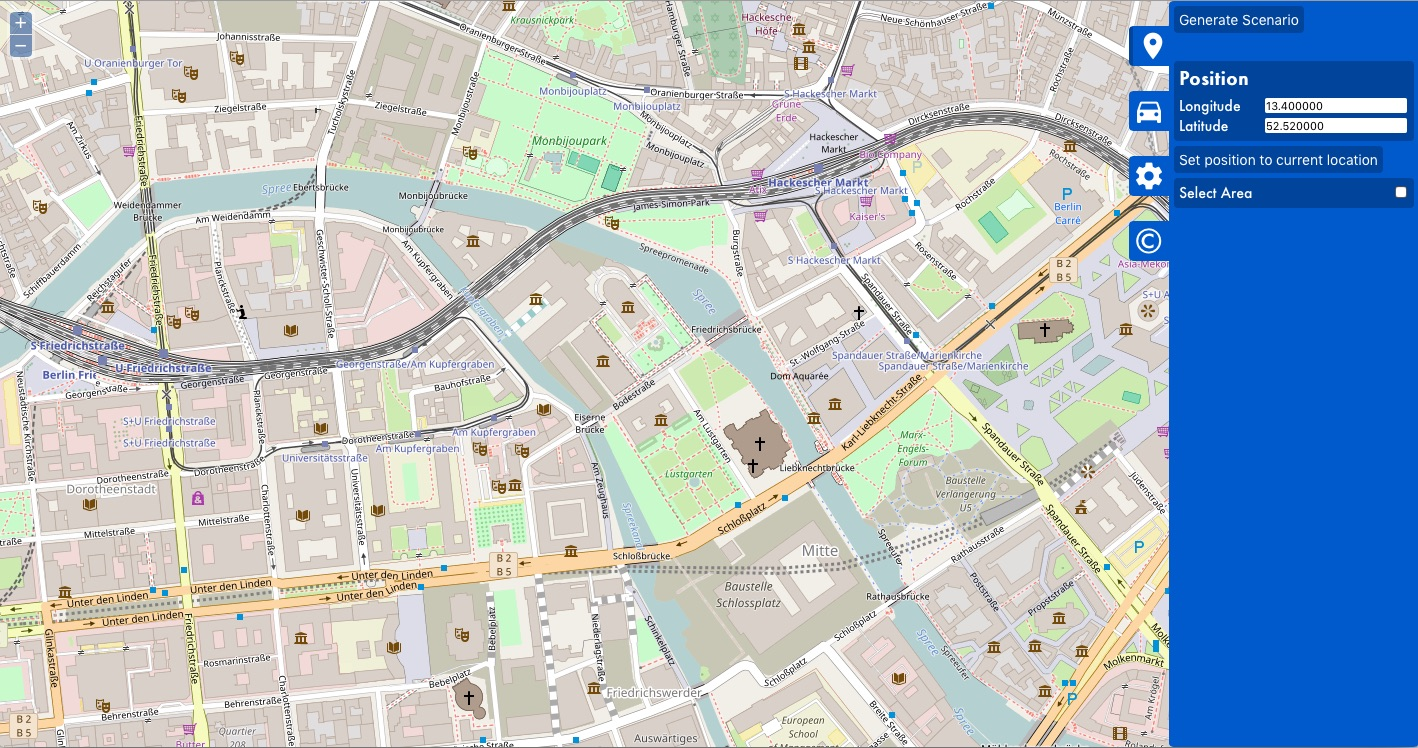
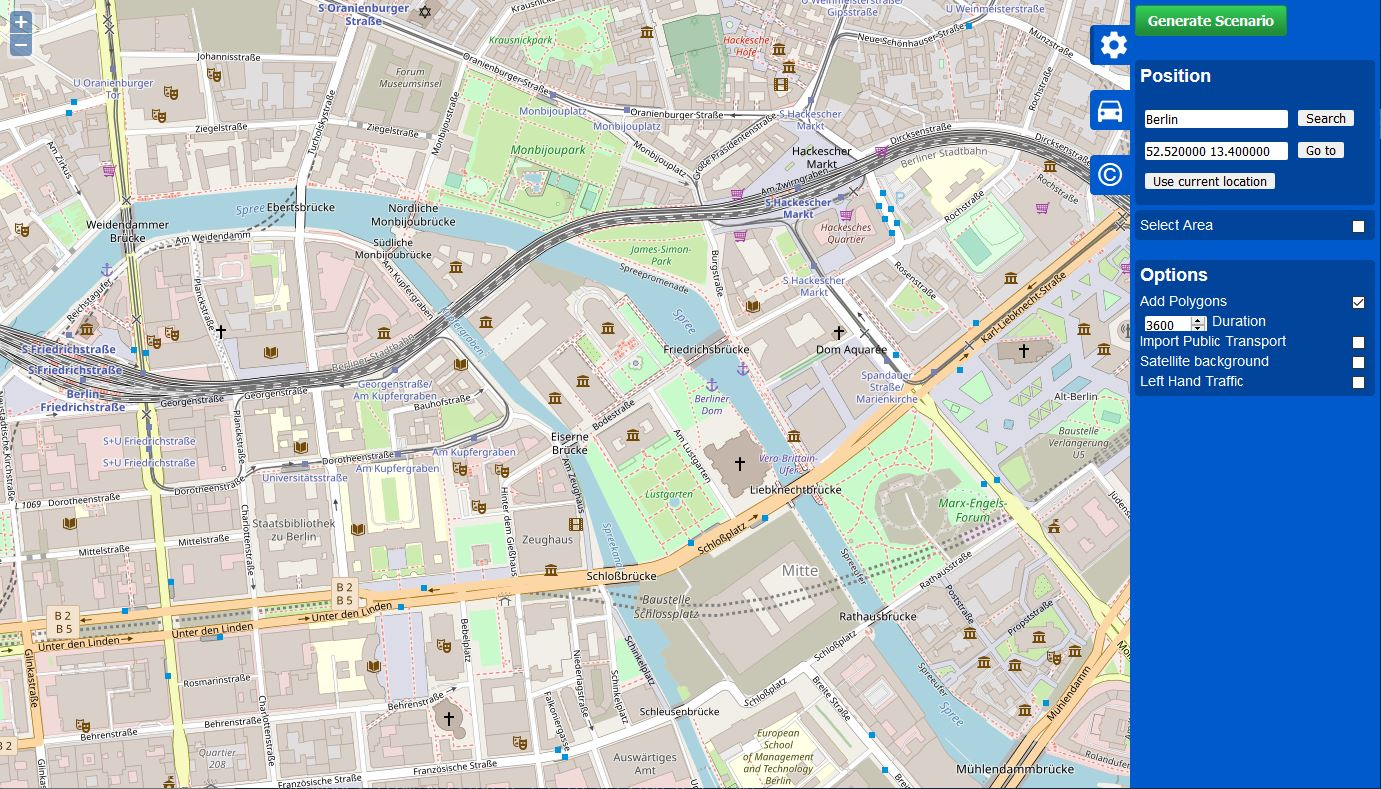
osmWebWizard can download satellite backgrounds. closes #6481

diff --git a/tools/webWizard/index.html b/tools/webWizard/index.html
@@ -56,6 +56,7 @@
                         <label>Add Polygons <input id="polygons" type="checkbox" checked /></label>
                         <label>Duration <input id="duration" type="number" value="3600" min="0" step="1" /></label>
                         <label>Import Public Transport <input id="publicTransport" type="checkbox" /></label>
+                        <label>Satellite background <input id="decal" type="checkbox" /></label>
                         <label>Left Hand Traffic <input id="leftHand" type="checkbox" /></label>
                     </div>
                 </div>

diff --git a/tools/webWizard/script.js b/tools/webWizard/script.js
@@ -431,6 +431,7 @@ on("ready", function(){
             duration: parseInt(elem("#duration").value),
             publicTransport: elem("#publicTransport").checked,
             leftHand: elem("#leftHand").checked,
+            decal: elem("#decal").checked,
             vehicles: {}
         };
 

diff --git a/tools/osmWebWizard.py b/tools/osmWebWizard.py
@@ -34,6 +34,7 @@ import osmGet
 import osmBuild
 import randomTrips
 import ptlines2flows
+import tileGet
 import sumolib  # noqa
 from webWizard.SimpleWebSocketServer import SimpleWebSocketServer, WebSocket
 
@@ -257,6 +258,24 @@ class Builder(object):
             ]
             ptlines2flows.main(ptlines2flows.get_options(ptOptions))
 
+        if self.data["decal"]:
+            self.report("Downloading background images")
+            tileOptions = [
+                "-n", self.files["net"],
+                "-t", "100",
+                "-d", "background_images",
+                "-l", "-300",
+            ]
+            try:
+                os.chdir(self.tmp)
+                os.mkdir("background_images")
+                tileGet.get(tileOptions)
+                self.report("Success.")
+            except:
+                os.chdir(self.tmp)
+                shutil.rmtree("background_images", ignore_errors=True)
+                self.report("Error while downloading background images")
+
         if self.data["vehicles"] or ptOptions:
             # routenames stores all routefiles and will join the items later, will
             # be used by sumo-gui
@@ -339,7 +358,16 @@ class Builder(object):
 
         self.filename("guisettings", ".view.xml")
         with open(self.files["guisettings"], 'w') as f:
-            f.write("""
+            if self.data["decal"]:
+                f.write("""
+<viewsettings>
+    <scheme name="real world"/>
+    <delay value="20"/>
+    <include href="background_images/settings.xml"/>
+</viewsettings>
+""")
+            else:
+                f.write("""
 <viewsettings>
     <scheme name="real world"/>
     <delay value="20"/>

diff --git a/docs/web/docs/ChangeLog.md b/docs/web/docs/ChangeLog.md
@@ -81,7 +81,8 @@ permalink: /ChangeLog/
   - Added [duaIterate.py](Demand/Dynamic_User_Assignment.md#iterative_assignment_dynamic_user_equilibrium) option **--measure-vtypes** to improve accuracy of measured travel times when different vehicle types can use different lanes.
   - Added [tileGet.py](Tools/Misc.md#tilegetpy) to retrieve image tiles from public servers. Issue #6279
   - Added [randomTrips.py](Tools/Trip.md) option **--personrides LINE** to generated person rides with the give line id.
-  - Added [randomTrips.py](Tools/Trip.md) option **--junction-taz** to generated trips, flows, personTrips and walks between junctions. Issue #6474    
+  - Added [randomTrips.py](Tools/Trip.md) option **--junction-taz** to generated trips, flows, personTrips and walks between junctions. Issue #6474
+  - Added the ability to download Satellite image backgrounds (using [tileGet.py](Tools/Misc.md#tilegetpy)) in [osmWebWizard](Tools/Import/OSM.md#osmwebwizardpy). Issue #6481
 
 ### Other
 - Build
